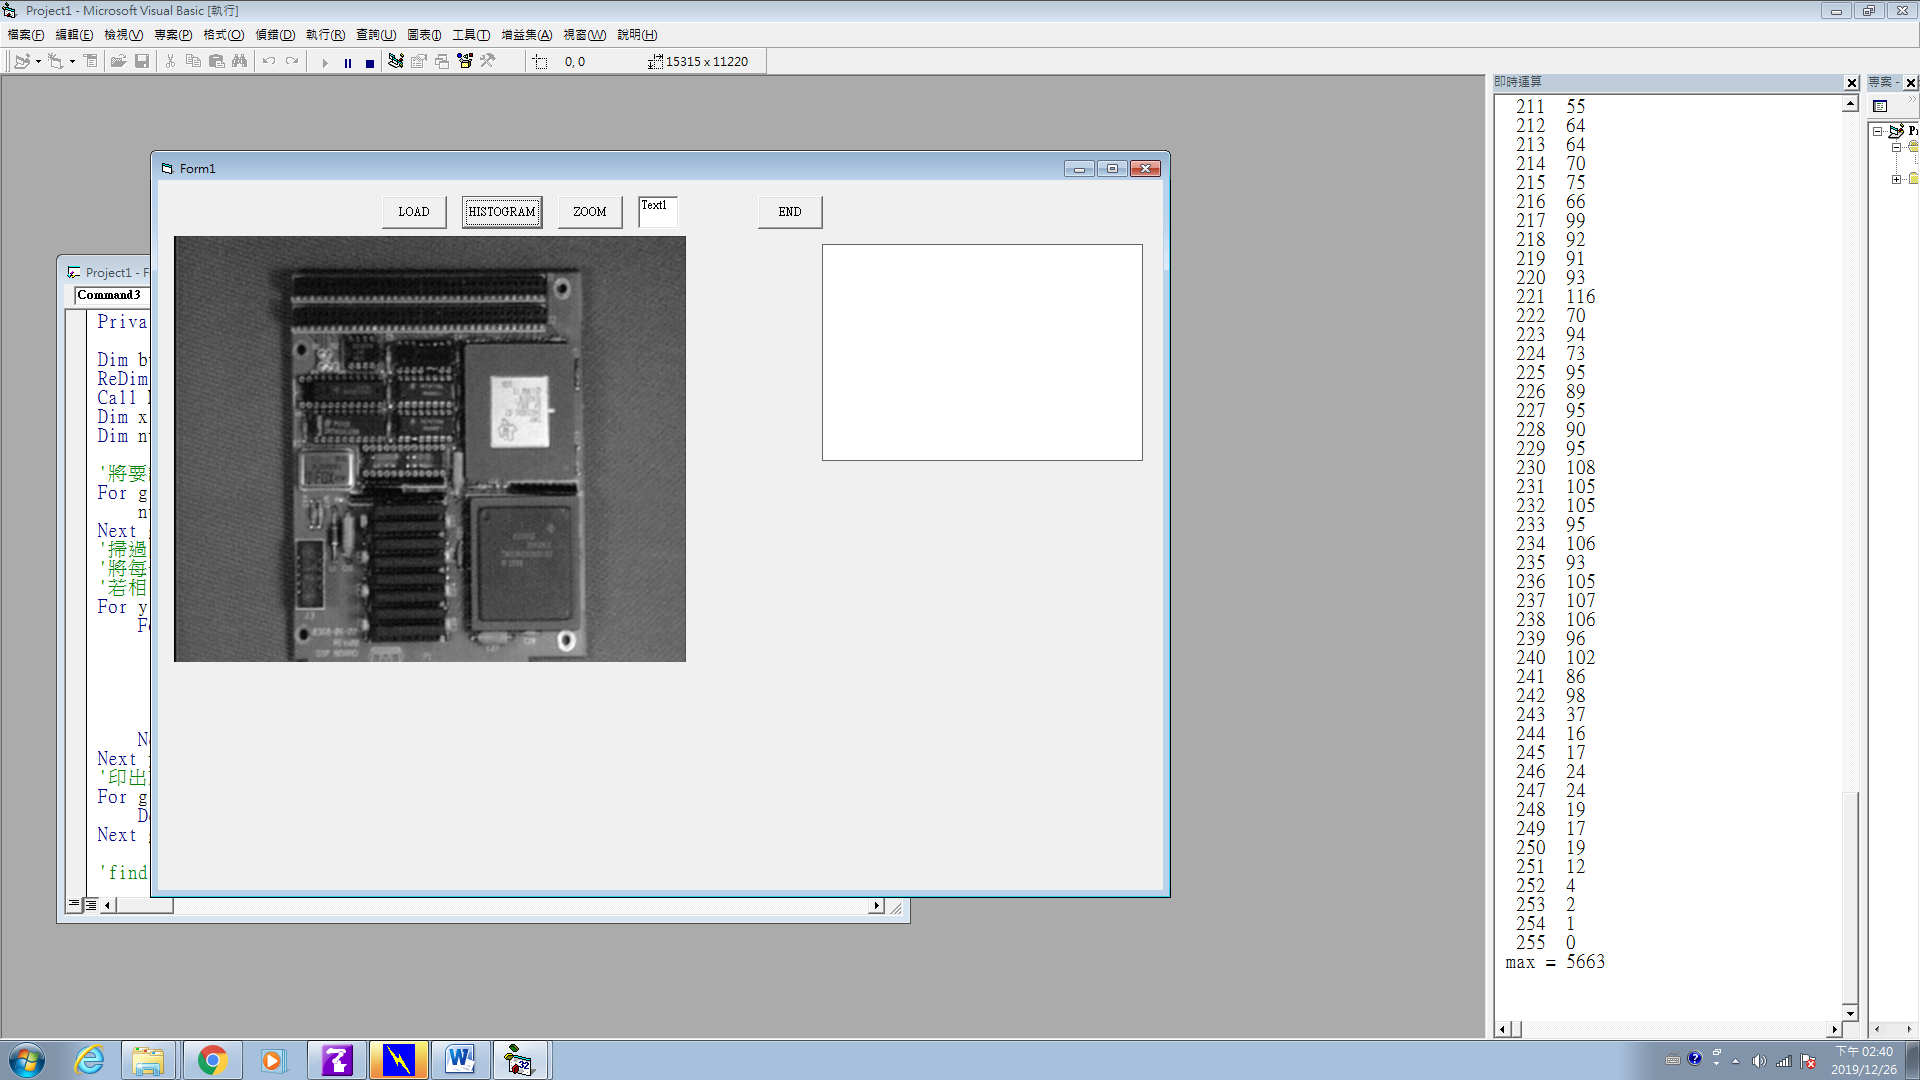
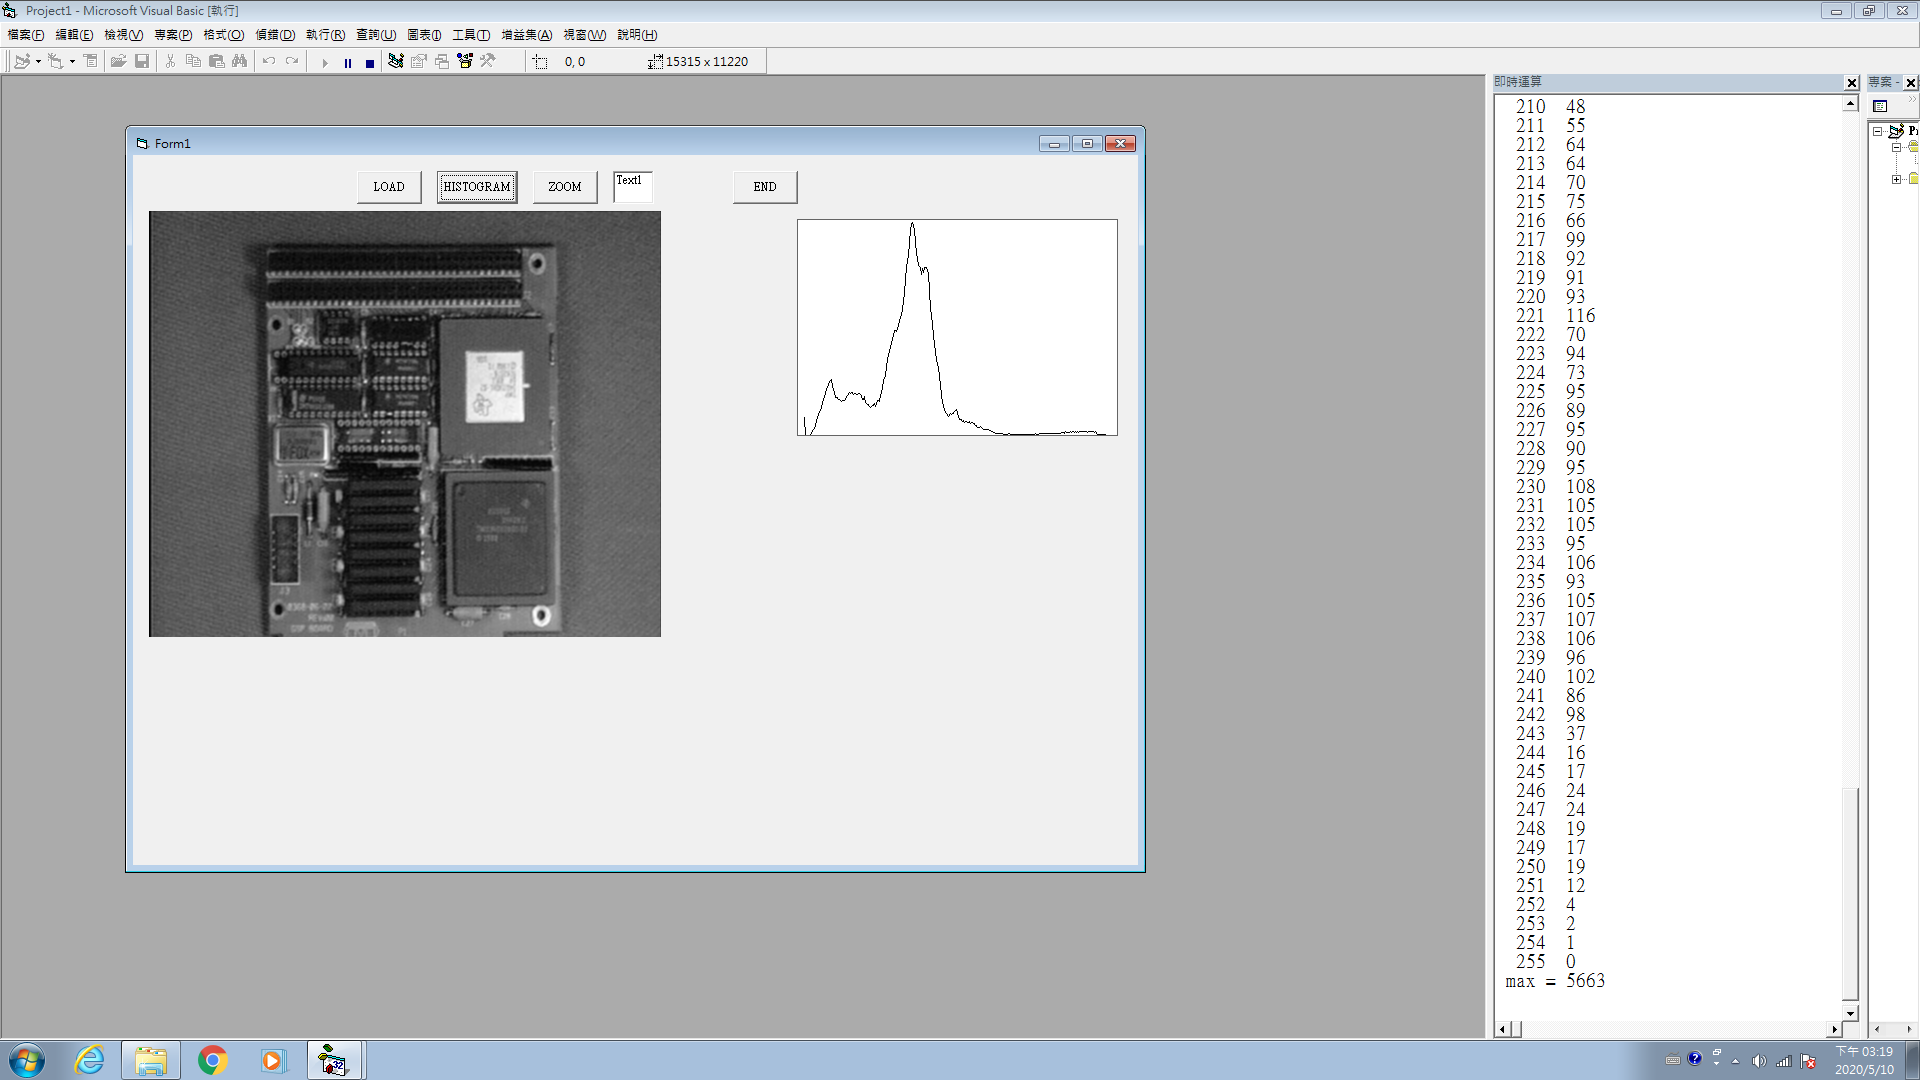
200510

diff --git a/2. Binarization.md b/2. Binarization.md
@@ -1,0 +1,33 @@
+## **Binarization**
+
+1 count the value of gray scale / histogram
+
+Use the library MIL(Matrox Imaging Library) 
+
+Can load the value of scale from every pixel
+
+and make a histogram to show 
+
+
+
+**The Result**
+
+![image](<https://github.com/Chiayuu/1071-Introduction-to-digital-image-processing/blob/master/ITDIP2-5.png>)
+
+
+
+2 binarization
+
+Load the file by the function
+
+and show it with its size
+
+Use the function depart the different color (red,blue,green)
+
+and will get three different picture of its binarization
+
+
+
+**The Result**
+
+![image](<https://github.com/Chiayuu/1071-Introduction-to-digital-image-processing/blob/master/ITDIP2-6.png>)
